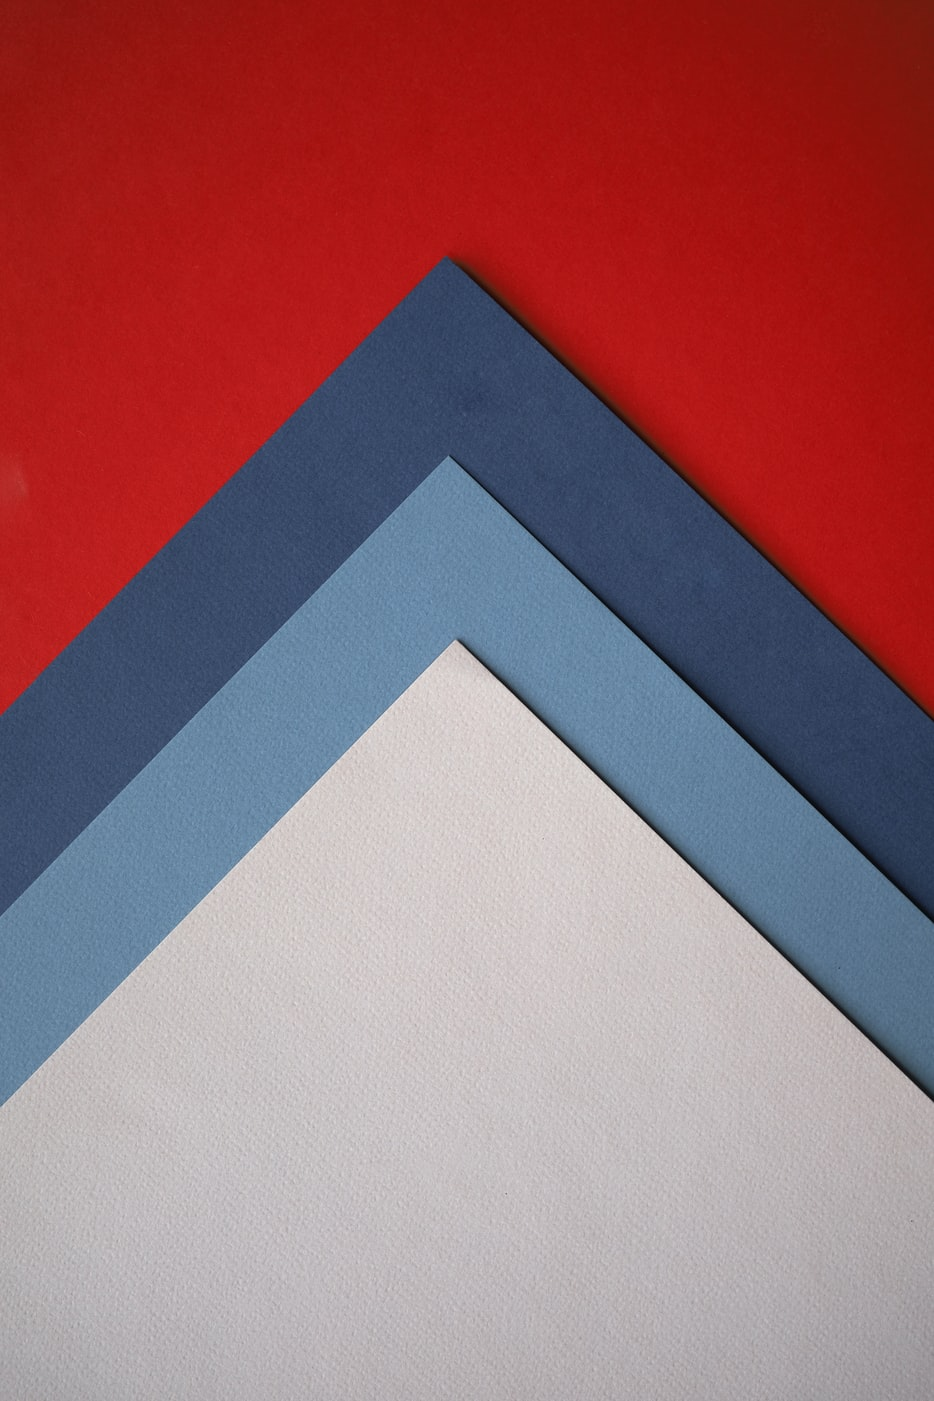
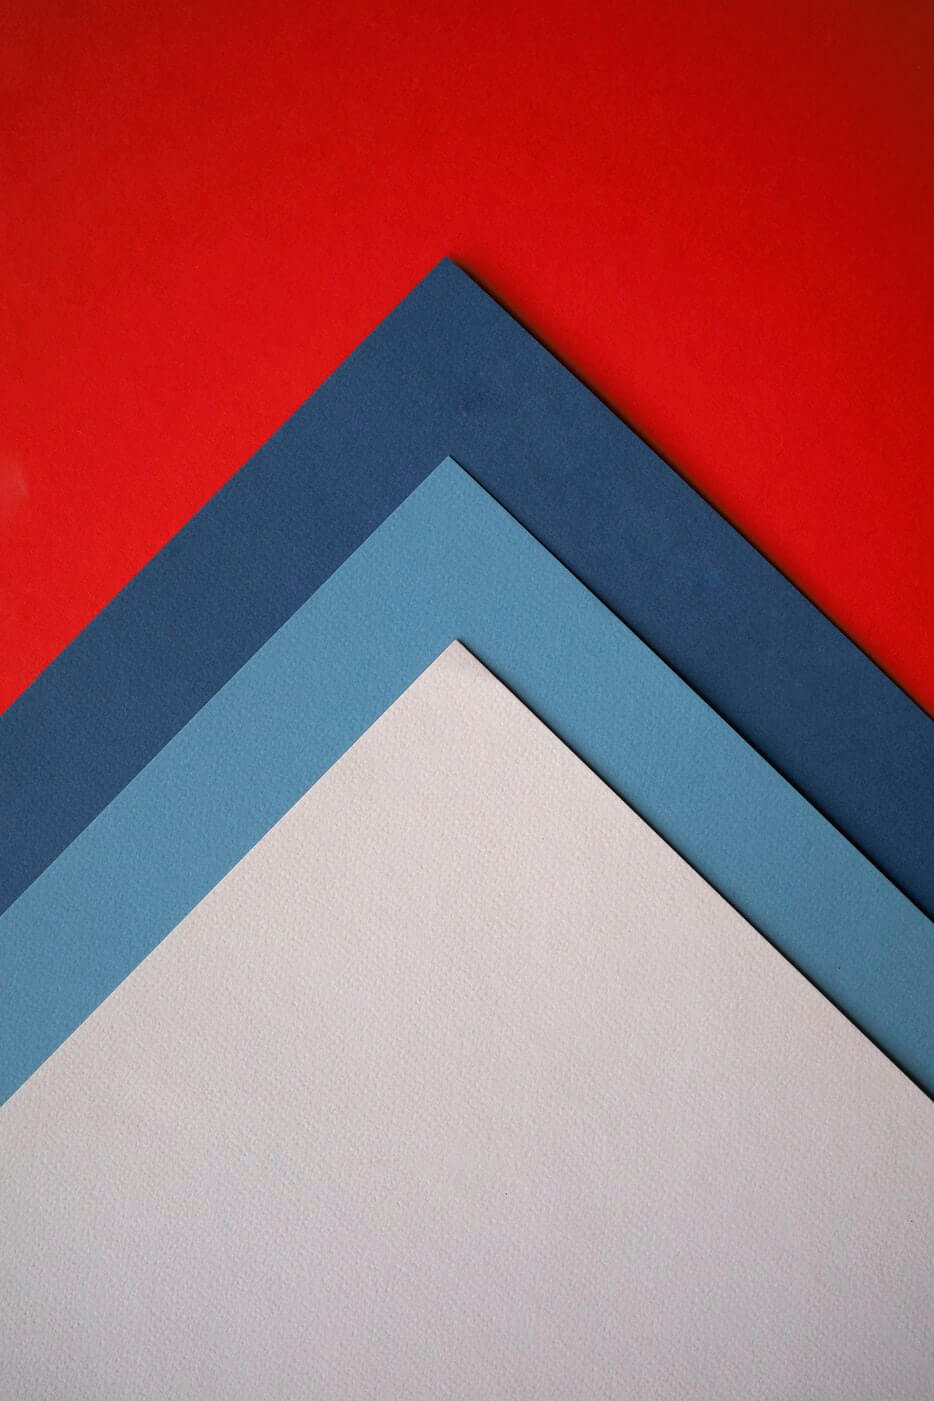
bg 修改

diff --git a/components/Iconfont.vue b/components/Iconfont.vue
@@ -5,12 +5,27 @@
         d="M568.7198535 493.0681176q4.06151091 32.23005566-25.87575626 51.68600322t-57.05767974 3.07888717q-19.98001364-8.71259627-27.38244519-29.67523369t-0.26203257-41.99078317 26.59634651-29.67523368q18.40781633-9.23666234 37.07766524-6.15777519t32.75412172 18.14578283 14.08427192 34.52284416zM625.51549978 482.32476633q-7.14039808-54.76489126-57.84377842-83.91605889t-100.81718535-6.68184036q-32.23005566 14.34630541-51.42397065 45.26619542t-17.68722515 66.29434123q2.03075591 46.57636017 39.63248722 79.33048189t84.70215753 28.69260991q46.57636017-4.06151091 77.75828368-42.97340695t25.61372277-86.01232226zM747.88489699 204.96286692q-10.21928612-13.82223933-28.69260991-22.79686819t-29.67523369-11.26741736-36.35707495-6.41980778q-148.90023536-24.04152545-289.67744888 1.04813215-22.01076954 3.60295322-33.80225299 6.15777518t-28.16854473 11.26741738-25.61372275 22.01076955q15.32892915 14.34630541 38.91189603 23.25542589t37.6017313 11.26741734 44.80763773 5.89574171q116.67018058 14.87037147 229.27884939 0.52406607 32.23005566-4.06151091 45.79026152-6.15777517t37.07766523-11.00538479 38.38782995-23.77949198zM777.03606548 734.59700901q-4.06151091 13.29817325-7.92649762 39.17392953t-7.14039807 42.97340694-14.60833799 35.83300887-29.67523368 28.88913502q-44.02153908 24.56559062-96.95219956 36.61910753t-103.37200732 11.26741736-103.10997387-9.49869493q-23.51745937-4.06151091-41.72875059-9.23666233t-39.1739295-13.82223935-37.33969871-22.27280213-26.59634653-31.44395612q-12.77410719-49.13118215-29.15116761-149.42430142l3.07888715-8.18853019 9.23666233-4.585577q114.11535863 75.72752868 259.21611656 75.72752868t259.74018263-75.72752868q10.74335217 3.07888716 12.25004112 11.79148343t-2.55482108 23.05890166-4.06151092 18.93188241zM869.66472063 242.82663081q-13.29817325 85.48825709-56.79564628 335.20567781-2.55482108 15.32892915-13.82223932 28.69260992t-22.27280215 20.43857134-27.90651124 15.85299433q-128.98573008 64.46011041-312.21228449 45.06967124-126.88946582-13.82223933-201.63437073-71.14195169-7.66446414-6.15777519-13.03614068-13.56020585t-8.71259628-17.88375026-4.58557699-17.42519255-3.07888713-20.24204713-2.81685456-17.88375025q-4.58557699-25.61372276-13.56020587-76.7756608t-14.3463054-82.67140253-12.05351692-75.46549517-11.26741736-80.83717173q1.50668982-13.29817325 8.97462887-24.82762411t16.11502785-19.19391498 23.05890166-15.32892917 23.51745939-11.52945086 24.56559063-9.49869491q64.00155272-23.51745937 160.16765361-32.75412173 193.96990658-18.9318824 345.94902998 25.61372277 79.33048189 23.51745937 110.05384769 62.42935539 8.18853021 10.21928612 8.4505637 26.07228047t-2.81685455 27.64447867z"
       />
     </symbol>
+    <!-- 我的信息 -->
+    <symbol class="icon-userinfo" viewBox="0 0 1024 1024">
+      <path
+        fill="#333333"
+        d="M492.544 522.666667c68.992 0 135.637333 16.682667 195.328 48.149333a32 32 0 1 1-29.845333 56.618667 353.664 353.664 0 0 0-165.482667-40.768C297.066667 586.666667 138.666667 744.298667 138.666667 938.666667a32 32 0 1 1-64 0c0-229.781333 187.136-416 417.877333-416zM896 704a32 32 0 0 1 3.072 63.850667L896 768H640a32 32 0 0 1-3.072-63.850667L640 704h256zM896 896a32 32 0 0 1 3.072 63.850667L896 960H640a32 32 0 0 1-3.072-63.850667L640 896h256z"
+      />
+    </symbol>
 
     <symbol id="icon-jianshu" viewBox="0 0 1024 1024">
       <path
         d="M308.444813 65.081282l-33.923855 13.014604-42.404819 52.066677h186.581204l46.649431-47.731228 67.847711 73.760438h-228.994283c42.404819 20.273385 67.112749 37.631697 74.20637 52.066677 7.019298 14.51756 10.603269 24.617092 10.603269 30.372916 0 5.838405-2.857267 14.51756-8.480964 26.037467-5.706277 11.594229-14.18724 18.853009-25.442891 21.693761-11.338231 2.923331-18.423593-5.755825-21.206539-26.037468a549.817501 549.817501 0 0 0-19.084233-49.894823c-7.09362-15.855356-19.084233-33.956887-36.046161-54.23853h-63.611358c-19.810937 17.358312-42.404819 40.555028-67.847711 69.424988-28.283643 31.88413-60.820155 62.257046-97.518698 91.127007L41.290323 303.729163c36.698543-40.472448 72.744704-88.203676 108.138482-143.185425 35.311199-54.907428 61.489053-108.477061 78.450981-160.543738l80.565027 65.081282zM209.6709 433.908243c0 312.408319 1.387344 498.989524 4.244611 559.718841L138.825536 1023.991742c2.774687-132.995056 4.244611-266.840687 4.244611-401.346957 0-134.514528-1.461666-224.881799-4.244611-271.184394l93.290603 43.387522-22.445239 39.06033zM219.390564 255.997936c64.998702 34.708365 102.432206 60.076935 112.374835 75.93229 9.868308 15.937936 14.839622 29.704019 14.839623 41.223926 0 8.679156-2.857267 18.853009-8.480964 30.372916-5.706277 11.594229-14.18724 20.273385-25.442892 26.037468-11.329973 5.838405-18.423593-1.420376-21.19828-21.693761-5.706277-17.358312-14.18724-37.549117-25.442892-60.745832-11.329973-23.114136-29.679245-47.731228-55.130394-73.760438L219.390564 255.997936z m134.46498 648.384964c3.014169-103.514004 4.599705-200.702381 4.599705-291.722034 0-90.937073-1.585536-156.811122-4.599705-197.622149l64.379352 42.347014h193.138055l27.589971-47.054072 97.741663 62.521302-45.98879 37.639954c0 185.127797 3.014169 296.429093 9.19941 334.077306l-93.141959 31.578584V829.102991H418.234896v47.054072l-64.379352 28.225837z m315.04262-1.874565c50.885783 5.764083 86.931944 9.348054 108.138483 10.851009 21.206539 1.420376 18.250175 0.668898 29.588407-2.171854 11.255651-2.915073 16.961928-13.014605 16.961927-30.372916V347.116685H524.713521c-22.668204 0-49.49844 4.343707-80.573286 13.014604l-38.160208-39.052072H838.517442l38.168466-39.052072 59.366747 60.745833-38.168466 26.037467v542.377045c0 20.199063-4.244611 38.300594-12.725575 54.238531-8.480964 15.855356-64.96567 44.048161-101.664212 58.565721-11.329973-43.379263-60.828413-73.752179-148.420997-91.110491L668.898164 902.508335zM418.234896 485.611568v141.153958h188.53835V485.611568H418.234896z m0 169.396311v145.861017h188.53835V655.007879H418.234896zM702.82202 60.745833l-38.160208 17.358311-38.168467 52.066677h241.240893l47.120136-47.731228L982.702085 156.200031H702.82202c50.885783 26.037467 78.45098 44.138999 82.687333 54.23853 4.244611 10.173853 6.358658 18.109789 6.358658 23.865614 0 5.838405-1.461666 12.345707-4.236352 19.530165-2.857267 7.25878-7.828582 13.766083-14.839623 19.521907-7.09362 5.838405-12.064935 8.679156-14.84788 8.679156-5.706277 0-10.603269-5.012605-14.839622-15.186458-4.236353-10.099531-9.215926-25.28599-14.839623-45.559375-5.706277-17.358312-19.810937-39.052072-42.404819-65.089539h-72.092322a1454.49769 1454.49769 0 0 1-135.703679 130.170821l-12.725575-13.014605c42.404819-49.151604 76.989315-99.046427 103.893872-149.692728C596.062623 73.09154 615.146856 33.296248 626.476829 4.343707l76.345191 56.402126z"
         fill="#5B5C5C"
         p-id="1724"
+      />
+    </symbol>
+
+    <!-- npm -->
+    <symbol class="icon-npm" viewBox="0 0 1024 1024" version="1.1">
+      <path
+        fill="#333333"
+        d="M0 320v352h288v64h224v-64h512V320H0z m56.864 56.864h227.648v245.376H227.52v-188.416H170.688v188.416H56.864v-245.376z m284.512 0H568.928v245.312h-113.792v56.96h-113.76v-302.272z m284.448 0H967.2v245.376h-56.96v-188.416h-56.864v188.416h-56.864v-188.416h-56.96v188.416h-113.728v-245.376z m-170.688 56.96v131.552H512v-131.552h-56.864z"
       />
     </symbol>
 

diff --git a/components/MyHeader.vue b/components/MyHeader.vue
@@ -1,15 +1,9 @@
 <template>
-  <header
-    class="header-container"
-    :style="style"
-  >
+  <header class="header-container" :style="style">
     <MyNavbar />
 
     <TransitionSlide>
-      <div
-        :key="$page.path"
-        class="header-title"
-      >
+      <div :key="$page.path" class="header-title">
         <h1>{{ title }}</h1>
         <p>{{ subtitle }}</p>
       </div>
@@ -18,47 +12,57 @@
 </template>
 
 <script>
-import TransitionSlide from '@theme/components/TransitionSlide.vue'
-import MyNavbar from '@theme/components/MyNavbar.vue'
+import TransitionSlide from "@theme/components/TransitionSlide.vue";
+import MyNavbar from "@theme/components/MyNavbar.vue";
+
 export default {
-  name: 'MyHeader',
+  name: "MyHeader",
   components: {
     MyNavbar,
     TransitionSlide,
   },
+  props: {
+    size: {
+      type: String,
+      require: true,
+      default: "40px",
+    },
+  },
   computed: {
-    title () {
-      return this.$frontmatter.title || null
+    title() {
+      return this.$frontmatter.title || null;
     },
-    subtitle () {
-      return this.$frontmatter.subtitle || null
+    subtitle() {
+      return this.$frontmatter.subtitle || null;
     },
-    backgroundImg () {
-      return this.$frontmatter.headerImage || this.$themeConfig.header.postHeaderImg
+    backgroundImg() {
+      return (
+        this.$frontmatter.headerImage || this.$themeConfig.header.postHeaderImg
+      );
     },
-    style () {
+    style() {
       if (this.backgroundImg) {
-        let url = this.backgroundImg
+        let url = this.backgroundImg;
         if (Array.isArray(url)) {
-          url = this.randomArr(url)
+          url = this.randomArr(url);
         }
         return {
-          'background-size': 'cover',
-          'background-repeat': 'no-repeat',
-          'background-position': 'center',
-          'background-attachment': 'scroll',
-          'background-image': `url(${url})`,
-        }
+          "background-size": "cover",
+          "background-repeat": "no-repeat",
+          "background-position": "center",
+          "background-attachment": "scroll",
+          "background-image": `url(${url})`,
+        };
       }
-      return {}
+      return {};
     },
   },
   methods: {
-    randomArr (arr) {
-      return arr[Math.floor(Math.random() * arr.length)]
+    randomArr(arr) {
+      return arr[Math.floor(Math.random() * arr.length)];
     },
   },
-}
+};
 </script>
 
 <style lang="stylus" scoped>
@@ -98,5 +102,4 @@ export default {
         font-size 1.5rem
       & p
         font-size 1rem
-
 </style>

diff --git a/components/MyMain.vue b/components/MyMain.vue
@@ -1,67 +1,52 @@
 <template>
-  <div
-    class="container"
-  >
-    <main
-      class="main"
-      :style="style"
-    >
+  <div class="container">
+    <main class="main" :style="style">
       <TransitionSlide>
-        <component
-          :is="layout"
-          :key="$page.path"
-        />
+        <component :is="layout" :key="$page.path" />
       </TransitionSlide>
     </main>
     <TransitionSlide direction="x">
-      <aside
-        v-show="layout !== 'tags'"
-        class="aside"
-      >
-        <InfoCard
-          class="main-div"
-        />
+      <aside v-show="layout !== 'tags'" class="aside">
+        <InfoCard class="main-div" />
 
-        <PostToc
-          v-if="$page.type === 'post'"
-          class="main-div aside-toc"
-        />
+        <PostToc v-if="$page.type === 'post'" class="main-div aside-toc" />
       </aside>
     </TransitionSlide>
   </div>
 </template>
 
 <script>
-import TransitionSlide from '@theme/components/TransitionSlide.vue'
-import InfoCard from '@theme/components/InfoCard.vue'
-import PostToc from '@theme/components/PostToc.vue'
+import TransitionSlide from "@theme/components/TransitionSlide.vue";
+import InfoCard from "@theme/components/InfoCard.vue";
+import PostToc from "@theme/components/PostToc.vue";
+
 export default {
-  name: 'MyMain',
+  name: "MyMain",
   components: {
     InfoCard,
     PostToc,
     TransitionSlide,
   },
   computed: {
-    layout () {
-      const layout = this.$page.frontmatter.layout
+    layout() {
+      const layout = this.$page.frontmatter.layout;
       if (layout) {
-        return layout
+        return layout;
       }
 
       if (!this.$page.path) {
-        return 'NotFound'
+        return "NotFound";
       }
 
-      return 'Layout'
+      return "Layout";
     },
-    style () {
+    style() {
       return {
-        width: this.$page.path !== '/tags/' ? '60%' : '70%',
-      }
+        width: this.$page.path !== "/tags/" ? "60%" : "70%",
+      };
     },
   },
-}
+};
 </script>
 
 <style lang="stylus" scoped>

diff --git a/components/MyNavbar.vue b/components/MyNavbar.vue
@@ -9,7 +9,9 @@
     >
       {{ navtitle }}
     </RouterLink>
-
+    <div v-if="!navbtnShow" class="toAbout" @click="toAbout">
+      <a href="/about">User Info</a>
+    </div>
     <ul
       v-if="navList"
       class="navbar-links"
@@ -23,7 +25,12 @@
           {{ item.text }}
         </a>
 
-        <RouterLink v-else :to="item.link" @click.native="isNavBtn = false">
+        <RouterLink
+          v-else
+          tag="a"
+          :to="item.link"
+          @click.native="isNavBtn = false"
+        >
           {{ item.text }}
         </RouterLink>
       </li>
@@ -94,6 +101,9 @@ export default {
         null
       );
     },
+    toAbout() {
+      console.log("111111");
+    },
   },
 };
 </script>
@@ -127,6 +137,15 @@ $lineHeight = $navbarHeight - ($gutter * 2)
         color $accentColor
     @media (max-width $MQMobile - 1)
       color $accentColor
+  .toAbout
+    margin-right -120px
+    color $accentColor
+    padding 5px
+    margin-top 5px
+    font-size 18px
+    @media (min-width $MQMobile)
+      display none
+
   .navbar-links
     font-weight 800
     display inline-flex

diff --git a/docs/.vuepress/config.js b/docs/.vuepress/config.js
@@ -49,13 +49,13 @@ module.exports = {
     header: {
       home: {
         title: "Peyton Blog",
-        subtitle: "这世界那么多人",
-        headerImage: "/avatar-bg.jpeg",
+        subtitle: "TODO跨越知道和做到的鸿沟",
+        headerImage: "/home-bg.jpeg",
       },
       tags: {
         title: "Tags",
         subtitle: "I am unstoppable",
-        headerImage: "/tags-bg.jpg",
+        headerImage: "/tags-bg.jpeg",
       },
       postHeaderImg: "/post-bg.jpeg",
     },

diff --git a/docs/about/index.md b/docs/about/index.md
@@ -1,15 +1,15 @@
 ---
 layout: about
 title: About
-subtitle: TODO跨越知道和做到的鸿沟
-headerImage: /about-bg.jpg
+subtitle: 这世界那么多人
+headerImage: /about-bg.jpeg
 ---
 
 ## 我的信息
 
-> 但愿日子都是清透，抬头遇见都是柔情。
+> I put my armor on I will show you that I am 
 
-Hi，你们好，我叫Peyton Peng，担任大前端组技术经理，负责团队web、小程序、App的研发工作，负责团队管理工作，培养和完善技术人员梯队，组织培训。<br/> 爱好篮球，周末都会在洛克公园球场上（上海）。喜欢电竞游戏，团队竞技类，比如：LOL:boom: :collision: :anger:，偶尔可以虐虐菜 :punch: :facepunch: :fist:。<br/>
+Hi，我叫Peyton Peng，担任大前端组技术经理，负责团队web、小程序、App的研发工作，负责团队管理工作，培养和完善技术人员梯队，组织培训。<br/> 爱好篮球，周末都会在洛克公园球场上（上海）。喜欢电竞游戏，团队竞技类。比如：LOL:boom: :collision: :anger:，偶尔可以虐虐菜 :punch: :facepunch: :fist:。<br/>
 
 本主题是[Vuepress](https://www.vuepress.cn/)构建前端静态博客，觉得主题好用的，那就给我点个[Star](https://github.com/BigPengZai/vuepress-theme-peyton)吧～
 
